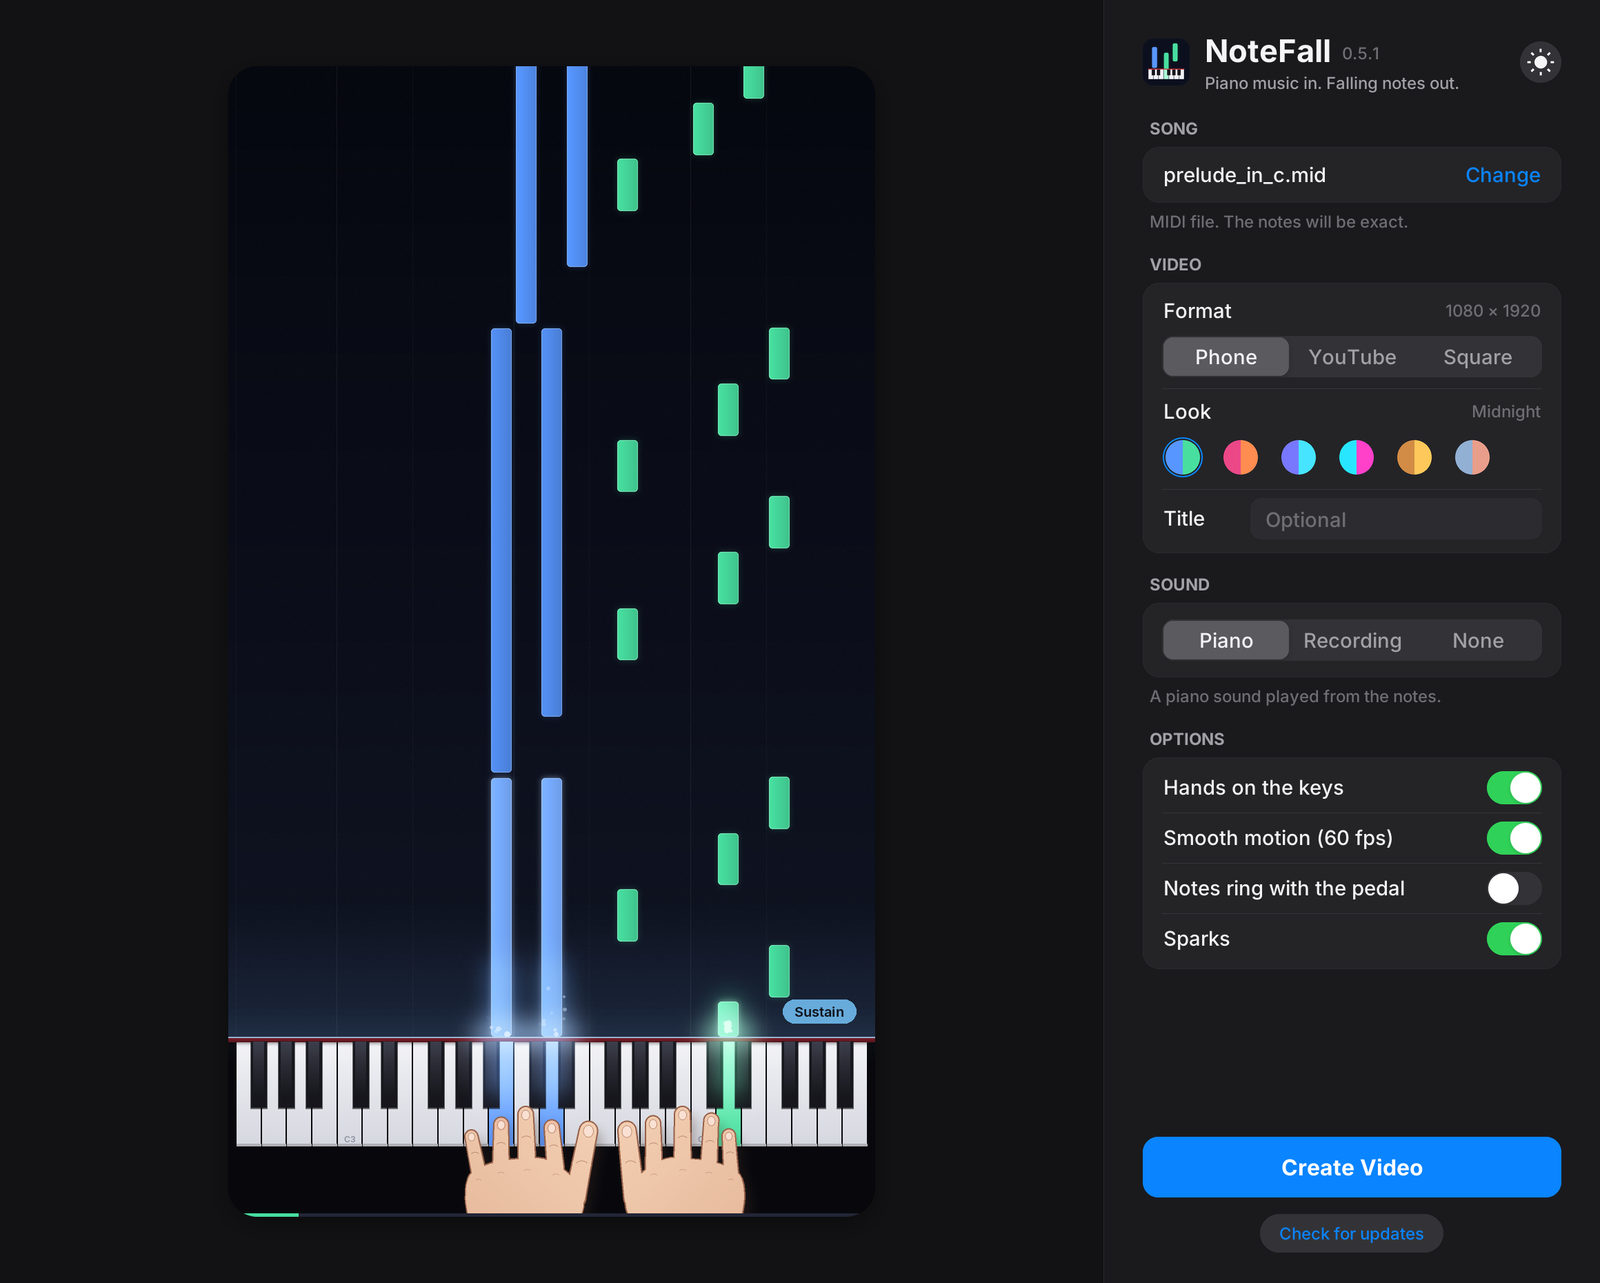
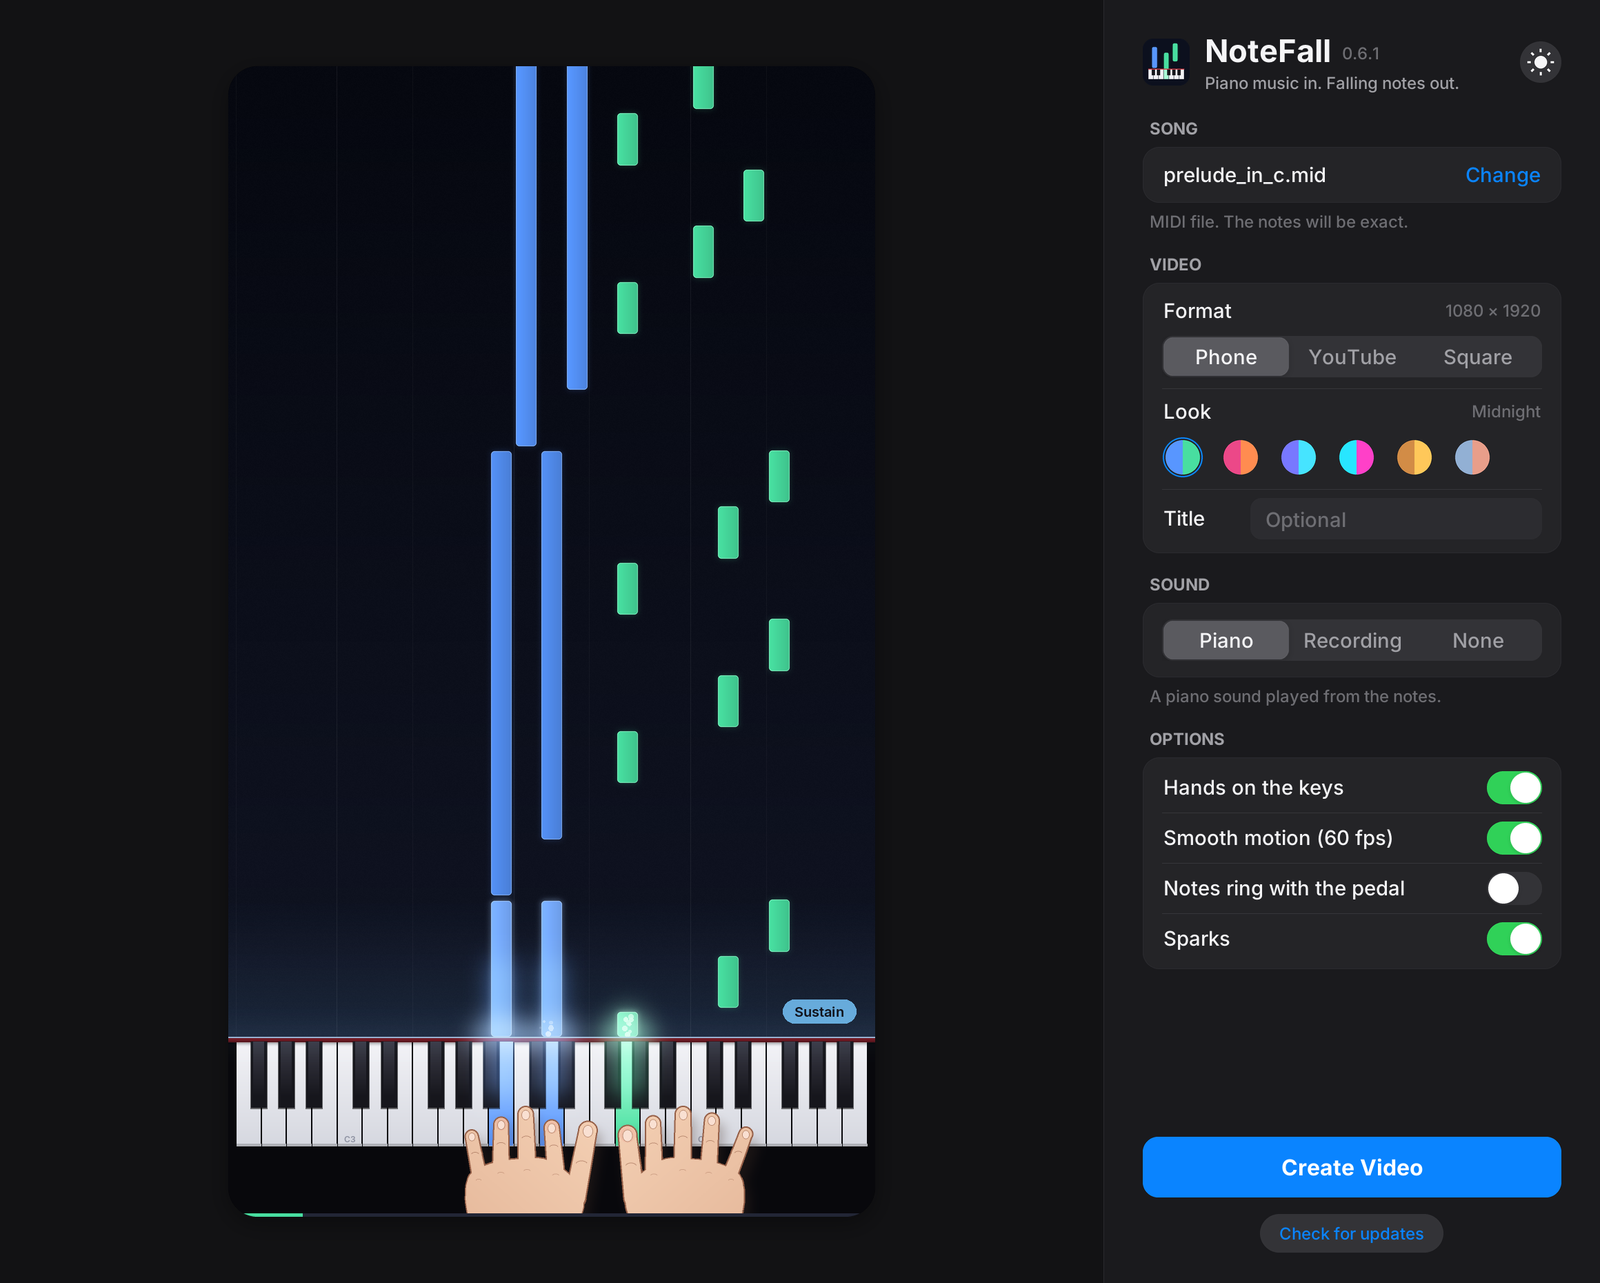
Tidier README: download cards, step cards, grouped questions, cleaner credits and footer, 0.6.1 screenshots

diff --git a/README.md b/README.md
@@ -54,7 +54,7 @@
     </td>
     <td width="50%" valign="top">
       <h3>🎧 No MIDI? Use a recording</h3>
-      An mp3, a phone recording or a video of someone playing. NoteFall listens with a piano only model, writes down the notes and the pedal, and keeps the real sound.
+      An mp3, a phone recording or a video of someone playing. NoteFall listens with a piano only model, writes down the notes and the pedal, and keeps the real sound. You can save what it heard as a MIDI too.
     </td>
   </tr>
   <tr>
@@ -92,19 +92,40 @@
 
 ## Get it
 
-1. Open the **[download page](https://github.com/Suma-Udd/notefall/releases/latest)** and scroll to **Assets**. Grab the file for your computer:
+<table>
+  <tr>
+    <th width="33%">🪟 Windows</th>
+    <th width="33%">🍎 Mac</th>
+    <th width="33%">🐧 Linux</th>
+  </tr>
+  <tr>
+    <td valign="top">
+      1. Download the <b>Setup.exe</b><br>
+      2. Open it and click <b>Install</b><br>
+      3. Find NoteFall in the Start menu<br>
+      <br>
+      No admin password needed.
+    </td>
+    <td valign="top">
+      1. Download the <b>mac-arm64.dmg</b><br>
+      2. Open it and drag NoteFall onto <b>Applications</b><br>
+      <br>
+      Older Intel Mac? Take the <b>mac-x64.dmg</b> instead. Not sure? Apple menu → <b>About This Mac</b>.
+    </td>
+    <td valign="top">
+      1. Download the <b>linux-x64.tar.gz</b><br>
+      2. Unpack it and open <b>NoteFall</b> inside the folder<br>
+      <br>
+      Or use the one line installer below.
+    </td>
+  </tr>
+</table>
 
-   | your computer | the file to download |
-   | --- | --- |
-   | 🪟 Windows | `NoteFall-…-windows-x64-Setup.exe` |
-   | 🍎 Mac with an Apple chip (M1 and newer) | `NoteFall-…-mac-arm64.dmg` |
-   | 🍎 Older Intel Mac | `NoteFall-…-mac-x64.dmg` |
-   | 🐧 Linux | `NoteFall-…-linux-x64.tar.gz` |
+<p align="center">
+  All the files are on the <b><a href="https://github.com/Suma-Udd/notefall/releases/latest">download page</a></b>, under <b>Assets</b>.
+</p>
 
-   Not sure which Mac you have? Click the Apple menu, then **About This Mac**. If it says **Chip: Apple M…** take arm64, if it says **Processor: Intel** take x64.
-
-2. **Windows:** open the Setup file and click **Install**. No admin password needed, and NoteFall shows up in the Start menu.<br>
-   **Mac:** open the .dmg and drag **NoteFall** onto **Applications**.
+### Good to know
 
 <details>
 <summary><b>My computer says the app might be unsafe</b></summary>
@@ -123,9 +144,9 @@ You only do this once.
 <summary><b>How do updates work?</b></summary>
 <br>
 
-NoteFall checks for a new version when it opens, and you can check any time with the **Check for updates** button under **Create Video**. On Windows one click downloads the new version, installs it and reopens the app. On a Mac it opens the download page so you can grab the new .dmg.
+NoteFall checks for a new version when it opens, and you can check any time with the **Check for updates** button under **Create Video**. On Windows one click downloads the new version, installs it and reopens the app. On Mac and Linux it opens the download page.
 
-If you're on 0.3.0 or older, download the new version by hand once. After that it's automatic.
+On 0.3.0 or older, download the new version by hand once. After that it's automatic.
 
 </details>
 
@@ -151,28 +172,83 @@ curl -LsSf https://raw.githubusercontent.com/Suma-Udd/notefall/main/scripts/inst
 
 ## Make a video
 
-1. Open NoteFall and click **Choose…**. To try it right away, use [`examples/prelude_in_c.mid`](examples/prelude_in_c.mid).
-2. Pick a format and a look. The preview moves as you change things.
-3. Click **Create Video** and pick where to save it.
-4. When it's done, click **Play**. That's it.
+<table>
+  <tr>
+    <td width="25%" valign="top">
+      <h3>🎵 Pick a song</h3>
+      Click <b>Choose…</b> and pick a MIDI or a recording. To try it, use <a href="examples/prelude_in_c.mid">prelude_in_c.mid</a>.
+    </td>
+    <td width="25%" valign="top">
+      <h3>🎨 Make it yours</h3>
+      Pick a format and a look. The preview plays along as you change things.
+    </td>
+    <td width="25%" valign="top">
+      <h3>🎬 Create Video</h3>
+      Pick where to save it and let it render.
+    </td>
+    <td width="25%" valign="top">
+      <h3>▶ Play it</h3>
+      Click <b>Play</b> to watch it, then post it wherever you like.
+    </td>
+  </tr>
+</table>
 
 > [!TIP]
-> A MIDI file is exact, a recording is a very good guess. For the cleanest result from a recording, use one with just the piano in a quiet room. The **[guide](docs/guide.md)** has more tips.
+> A MIDI file is exact, a recording is a very good guess. For the cleanest result from a recording, use one with just the piano in a quiet room. After listening, **Notes as MIDI · Save…** gives you the notes as a MIDI file too.
 
 ## Learn more
 
-| | |
-| --- | --- |
-| 📖 [Guide](docs/guide.md) | where to find MIDI files, using recordings, the sustain pedal, common questions |
-| ⌨ [Command line](docs/command-line.md) | every option, and using NoteFall from Python |
-| ⚙ [How it works](docs/how-it-works.md) | how the video gets drawn, and why it's fast |
-| 🛠 [Contributing](CONTRIBUTING.md) | run it from source, tests, building the apps |
-| 🗒 [Changelog](CHANGELOG.md) | what changed in each version |
-
-Found a bug or have an idea? **[Open an issue](https://github.com/Suma-Udd/notefall/issues/new/choose)**, there's a short form for each.
+<table>
+  <tr>
+    <td width="50%" valign="top">
+      📖 <b><a href="docs/guide.md">Guide</a></b><br>
+      Where to find MIDI files, using recordings, the sustain pedal, common questions.
+    </td>
+    <td width="50%" valign="top">
+      ⌨ <b><a href="docs/command-line.md">Command line</a></b><br>
+      Every option, and using NoteFall from Python.
+    </td>
+  </tr>
+  <tr>
+    <td valign="top">
+      ⚙ <b><a href="docs/how-it-works.md">How it works</a></b><br>
+      How the video gets drawn, and why it's fast.
+    </td>
+    <td valign="top">
+      🛠 <b><a href="CONTRIBUTING.md">Contributing</a></b><br>
+      Run it from source, the tests, building the apps.
+    </td>
+  </tr>
+  <tr>
+    <td valign="top">
+      🗒 <b><a href="CHANGELOG.md">Changelog</a></b><br>
+      What changed in each version.
+    </td>
+    <td valign="top">
+      💬 <b><a href="https://github.com/Suma-Udd/notefall/issues/new/choose">Report a bug or share an idea</a></b><br>
+      There's a short form for each.
+    </td>
+  </tr>
+</table>
 
 ## Credits
 
-Recording to notes uses ByteDance's [piano transcription](https://github.com/bytedance/piano_transcription) model (Kong et al., code MIT, see [`docs/licenses/piano-transcription.md`](docs/licenses/piano-transcription.md)), with [Basic Pitch](https://github.com/spotify/basic-pitch) by Spotify (Apache 2.0) as the fallback. Text is set in [Inter](https://rsms.me/inter/) and the Paper look in [Kalam](https://fonts.google.com/specimen/Kalam) (both OFL). MIDI reading by [pretty_midi](https://github.com/craffel/pretty-midi), video by [FFmpeg](https://ffmpeg.org). The Basic Pitch and font licenses live in [`notefall/assets`](notefall/assets).
+NoteFall stands on the shoulders of some great free projects:
 
-NoteFall itself is MIT licensed, see [LICENSE](LICENSE).
+| what | who and license |
+| --- | --- |
+| Listening to recordings | ByteDance's [piano transcription](https://github.com/bytedance/piano_transcription) model by Kong et al., MIT ([notice](docs/licenses/piano-transcription.md)) |
+| Backup listener | [Basic Pitch](https://github.com/spotify/basic-pitch) by Spotify, Apache 2.0 |
+| Fonts | [Inter](https://rsms.me/inter/) and [Kalam](https://fonts.google.com/specimen/Kalam), both OFL |
+| Reading MIDI | [pretty_midi](https://github.com/craffel/pretty-midi) |
+| Making the video | [FFmpeg](https://ffmpeg.org) |
+
+<sub>The full Basic Pitch and font licenses are in [`notefall/assets`](notefall/assets).</sub>
+
+<br>
+
+<p align="center">
+  <img src="docs/media/logo.png" width="48" alt=""><br>
+  NoteFall is free and open source under the <a href="LICENSE">MIT license</a>.<br>
+  If it helped you, a ⭐ helps other people find it.
+</p>
